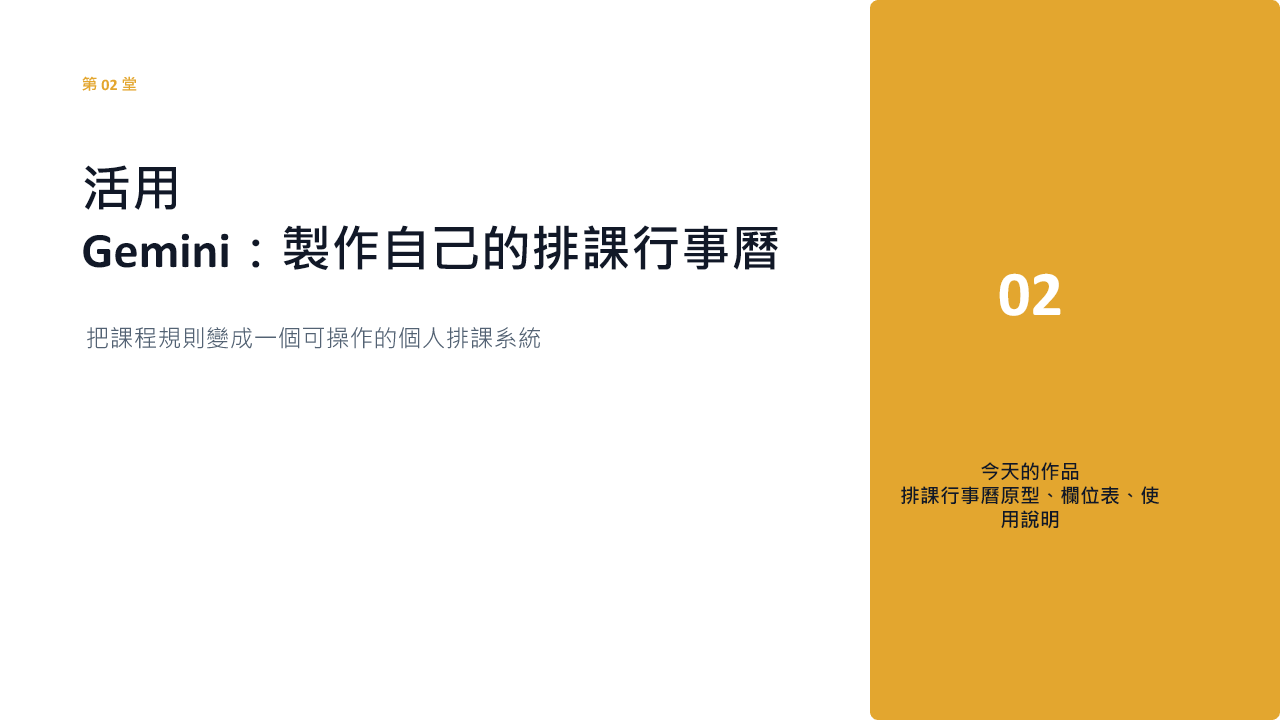
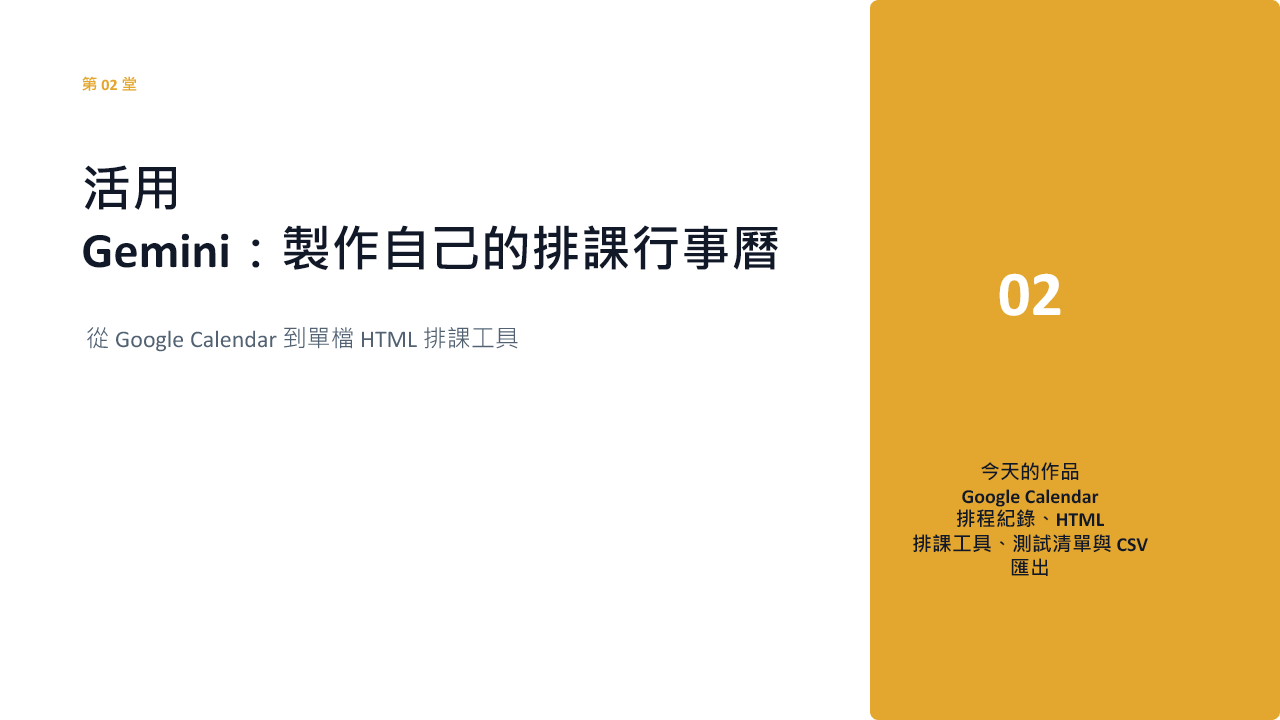
Expand lesson two calendar and HTML tool course

Changed region(s): [[0.6875, 0.6722, 0.9062, 0.7944], [0.0625, 0.4583, 0.4375, 0.4889]]

diff --git a/class/lesson.js b/class/lesson.js
@@ -1,6 +1,6 @@
 const DATA={
 '01':{title:'Gemini Notebook 遊戲化 RPG 簡報',tag:'GEMINI NOTEBOOK / GAME DESIGN',accent:'#147d7e',lede:'把一份教材變成一場可以闖關、練習與展示的學習冒險。',goals:['理解遊戲化的目標、任務、挑戰、回饋與成長','用 Gemini Notebook 整理真實教材與來源','完成 8–12 張 RPG 簡報初版'],steps:['上傳「112年情境族語｜01上課用語｜太魯閣語」PDF','請 Gemini Notebook 先整理對話、單詞與互動測驗','設計玩家、世界觀、任務線與三個關卡','要求 Gemini Notebook 生成簡報大綱','人工核對太魯閣語與中文意思'],practice:'把 PDF 中的對話練習、單詞練習與互動測驗轉成三個 RPG 關卡。',output:'Gemini Notebook 遊戲化 RPG 簡報 v1',prompts:['請根據我上傳的教材，整理所有語言資料、中文意思、使用情境與頁碼。只能使用來源中確認的內容，不可以自行猜測或補寫。','請把這份教材設計成適合國中生的 RPG。請提供世界觀、角色、3 個任務、挑戰、回饋、獎勵與勝利條件，並區分教材資料與故事設定。','請檢查這份 RPG 簡報：哪些語言內容有來源？哪些可能是推測？請列出需要族語教師人工確認的地方。'],source:'使用者提供的 112 年情境族語 PDF'},
-'02':{title:'活用 Gemini：製作自己的排課行事曆',tag:'GEMINI / PLANNING',accent:'#e3a62f',lede:'把課程規則變成一個可操作、可維護的個人排課系統。',goals:['把自然語言需求拆成資料欄位','讓 Gemini 協助整理排課規則與衝堂條件','完成自己的排課行事曆原型'],steps:['列出課程、班級、教師、地點與時段','請 Gemini 找出缺少的條件與衝堂風險','建立 Google Sheet 欄位','請 Gemini 產生排課規則與操作說明','用兩組衝堂資料測試'],practice:'建立至少 5 門課、3 種時段、2 個教室與 2 個可能衝堂案例。',output:'排課行事曆原型、欄位表與使用說明',prompts:['請把我的排課需求拆成資料欄位、必要規則、限制條件與待確認問題。','請根據以下課程資料，找出時間、教師、教室與班級衝堂，並提出三種修正方案。不要自行假設未提供的資訊。','請幫我寫一份排課行事曆的使用說明與測試案例，讓另一位老師可以接手。'],source:'Gemini 課程設計示範；實際 Gemini 功能依帳號介面為準'},
+'02':{title:'活用 Gemini：製作自己的排課行事曆',tag:'GEMINI / CALENDAR / HTML',accent:'#e3a62f',lede:'先讓 Gemini 協助處理 Google Calendar，再讓它寫出可以自己使用的單檔 HTML 排課工具。',goals:['用 @Google Workspace 協助建立與檢查 Calendar 行程','把排課條件、衝堂規則與確認流程說清楚','用 Gemini 產出並測試本地端 HTML 排課工具'],steps:['確認 Gemini 的 Google Workspace 擴充功能與權限','用 Prompt 1 建立單一課程行程並核對 Calendar','用 Prompt 2 提供限制條件、避開既有行程並先預覽','用 Prompt 3 產生單檔 HTML 排課工具','用 Prompt 4 加入時間驗證、刪除、防呆與 localStorage','延伸加入 CSV 匯出並測試中文編碼'],practice:'完成一個 Calendar 排程案例與一個可在瀏覽器開啟的 HTML 排課工具，測試新增、刪除、錯誤時間、重新整理與 CSV 匯出。',output:'Google Calendar 排程紀錄、HTML 排課工具、測試清單與 CSV 匯出',prompts:['請幫我建立下週的課程行事曆：AI 基礎工具應用實務，下週一到週三，每天下午 2:00 到 4:00。請先列出三個事件供我確認日期、時間與時區，再協助加入 Google Calendar。','你現在是一位專業排課助理。請安排下個月 5 堂、每堂 2 小時的進階提示詞工程課程，只能在每週二或週四下午 1:00 到 5:00，兩堂不能同一天；先檢查既有 Calendar 行程並輸出候選時段，等我確認後再建立，備註加上「請記得帶筆電與充電線」。','我需要一個單頁式專屬排課工具，請產生同一個 HTML 檔案中的 CSS 與 JavaScript；介面包含課程名稱、講師、日期、開始與結束時間、新增按鈕及課程表格，風格現代簡約，資料使用 localStorage。','請在上一個 HTML 工具加入時間驗證、刪除、防呆、日期檢查與 CSV 匯出功能，並列出測試方式。'],source:'使用者提供的第二堂課程講義；Google Workspace 與 Gemini 功能依帳號權限與介面為準'},
 '03':{title:'Vibe 你的題庫：題庫產品設計',tag:'VIBE CODING / PRODUCT',accent:'#3d8dff',lede:'用自然語言把一個題庫想法變成可開發、可驗收的產品規格。',goals:['拆解使用者與真正問題','規劃題型、欄位、畫面與操作流程','用 Gemini 產出第一版 MVP brief'],steps:['描述誰會使用題庫','定義題型、難度、答案與解析','規劃新增、作答、檢查與成績流程','請 Gemini 產生需求 brief','刪掉第一版不必要功能'],practice:'設計一個自己的題庫，至少包含 2 種題型、3 種難度與成績紀錄。',output:'題庫需求 brief、欄位表與畫面草圖',prompts:['你是產品經理。請把我的題庫想法拆成使用者、問題、功能、資料欄位、畫面流程與 MVP。遇到未知資訊請列出問題。','請將這份題庫需求改成開發者可以執行的 user stories 與驗收標準。','請檢查這個題庫 MVP 是否過大，提出可以延後的功能。'],source:'課程自製方法與學員真實題目'},
 '04':{title:'Gemini + GAS 自動化題庫',tag:'GEMINI + GAS / AUTOMATION',accent:'#3d8dff',lede:'讓題庫可以自動產生、整理、評分、批次處理並留下紀錄。',goals:['理解 Google Sheet、GAS 與 Gemini 的資料流','設計提示詞模板與結構化輸出','加入錯誤處理、測試與人工抽查'],steps:['建立題庫輸入、輸出與狀態欄位','設計固定格式的 Gemini 提示詞','用 GAS 讀取資料並呼叫模型','將結果寫回指定欄位','測試空白、錯誤與重複資料'],practice:'讓系統根據 3 個主題各產生 5 題，保留版本、來源與檢查狀態。',output:'可重複執行的題庫自動化工具與測試報告',prompts:['請協助我設計 Google Apps Script 題庫自動化流程，輸入為主題與難度，輸出為題目、選項、答案、解析與標籤。','請把這個 Gemini 題庫輸出限制成嚴格 JSON，並列出格式錯誤時的處理方式。','請幫我建立題庫自動化的測試案例，包含成功、空白、重複與模型輸出錯誤。'],source:'Google Apps Script 與 Gemini 實作課程；API 權限需依帳號設定'},
 '05':{title:'讓你的網頁活起來：Google 協作平台與 Netlify 上架',tag:'GOOGLE SITES / NETLIFY',accent:'#147d7e',lede:'把作品整理、發布，變成別人打得開、看得懂、可以使用的網址。',goals:['理解內容結構、嵌入、權限與發布','用 Google Sites 包裝教學作品','認識 Netlify 靜態網站部署與檢查'],steps:['規劃首頁、導覽、作品、說明與資源頁','Google Sites 加入文字、圖片、檔案與嵌入','預覽桌機與手機版','發布並確認 Published site 權限','Netlify 部署後檢查路徑、網址與資產'],practice:'把第 3–4 堂題庫作品包裝成 Google Sites 或 Netlify 網站。',output:'可開啟、可分享的線上作品網址',prompts:['請把我的作品整理成教學網站，規劃首頁、作品介紹、操作步驟、學習資源、作品展示與聯絡方式。','請產生 Google Sites 發布前檢查表，包含預覽、連結、手機版、權限與個人資料。','請產生 Netlify 靜態網站上架前檢查表，包含檔案路徑、首頁、資產、公開網址與回復方式。'],source:'https://support.google.com/sites/answer/6372880?hl=en；https://docs.netlify.com/'},
